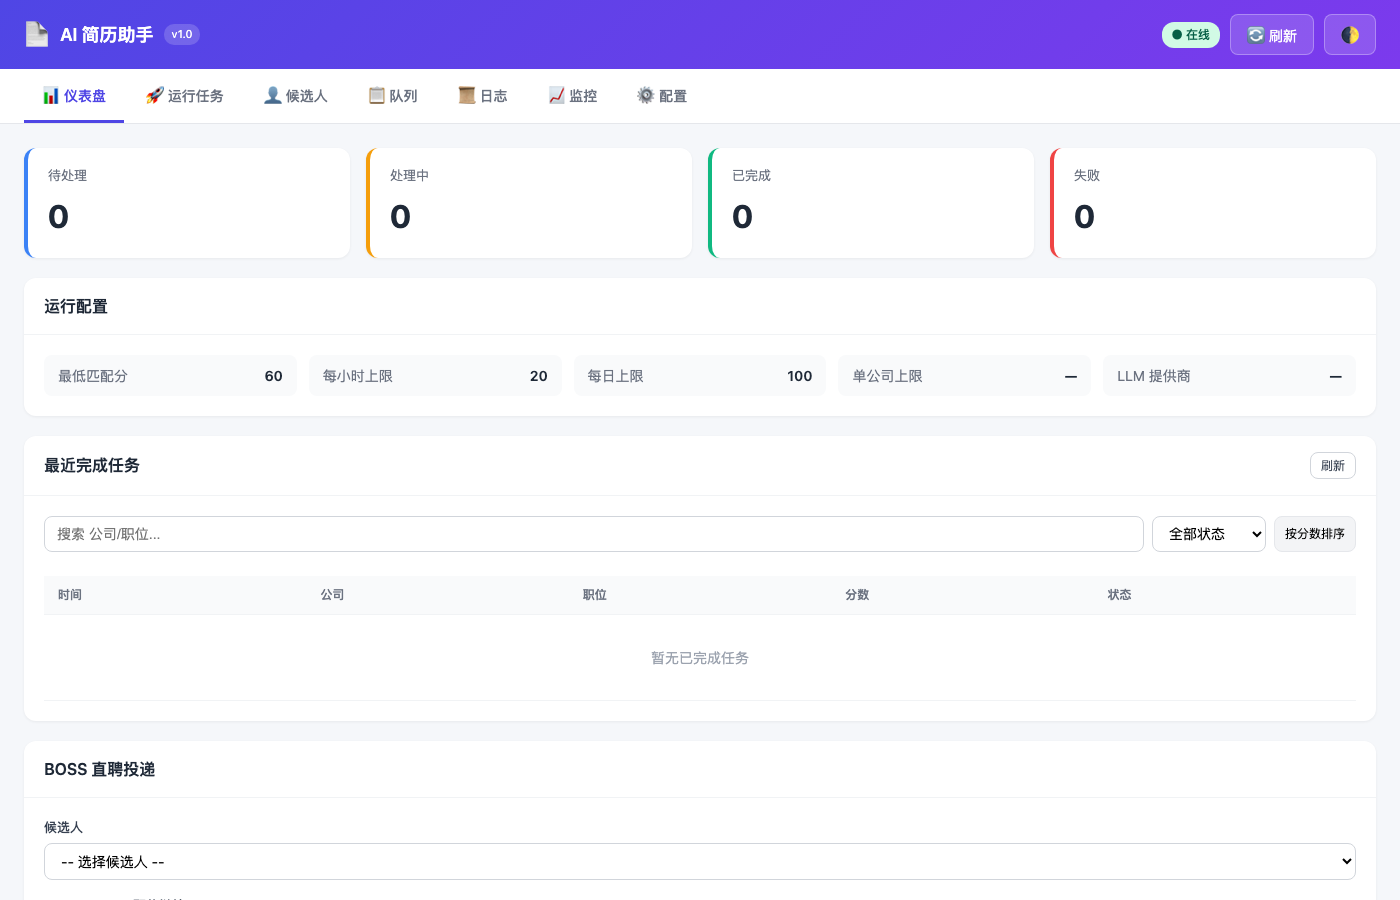
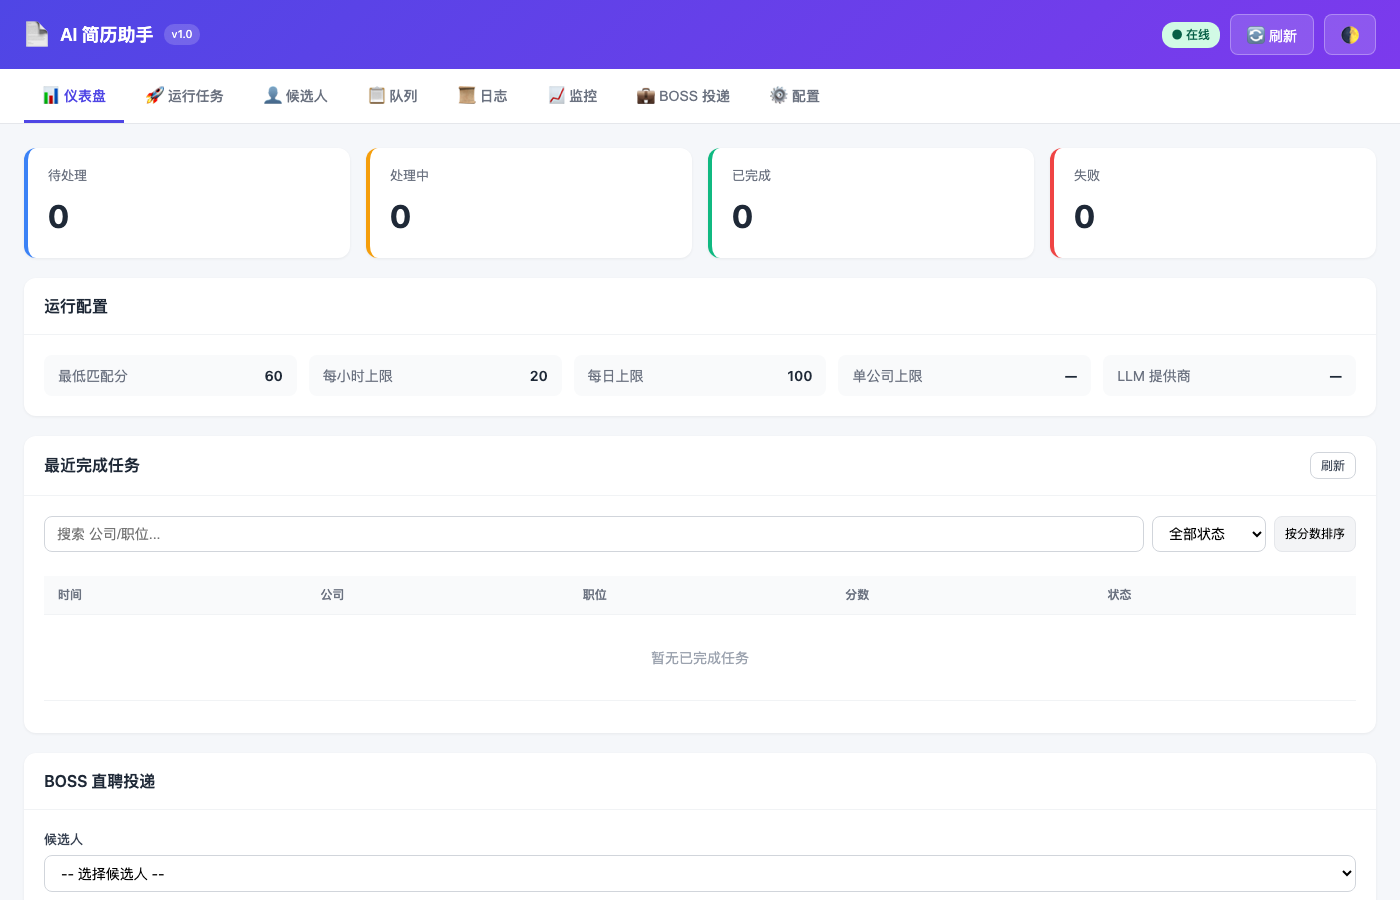
feat: passing Playwright E2E with boss apply screenshots

diff --git a/web/templates/index.html b/web/templates/index.html
@@ -28,6 +28,7 @@
     <button class="tab" data-tab="queue">📋 队列</button>
     <button class="tab" data-tab="logs">📜 日志</button>
     <button class="tab" data-tab="metrics">📈 监控</button>
+    <button class="tab" data-tab="boss-apply">💼 BOSS 投递</button>
     <button class="tab" data-tab="settings">⚙ 配置</button>
   </nav>
 
@@ -224,17 +225,17 @@
           <form id="boss-apply-form" class="form">
             <div class="form-row">
               <label>候选人</label>
-              <select id="boss-candidate" required>
+              <select id="boss-candidate-old" required>
                 <option value="">-- 选择候选人 --</option>
               </select>
             </div>
             <div class="form-row">
               <label>BOSS Job ID / 职位链接 ID</label>
-              <input type="text" id="boss-job-id" placeholder="例如 123456789" />
+              <input type="text" id="boss-job-id-old" placeholder="例如 123456789" />
             </div>
             <div class="form-row">
               <label>JD 文本</label>
-              <textarea id="boss-jd-text" rows="6" placeholder="粘贴职位描述，或留空自动抓取"></textarea>
+              <textarea id="boss-jd-text-old" rows="6" placeholder="粘贴职位描述，或留空自动抓取"></textarea>
             </div>
             <div class="form-actions">
               <button type="submit" class="btn btn-primary">投递到队列</button>
@@ -319,7 +320,7 @@
       </div>
     </section>
 
-        <!-- ============ Metrics ============ 
+        <!-- ============ Metrics ============ -->
     <section id="tab-metrics" class="tab-pane">
       <div class="card">
         <div class="card-header">

diff --git a/e2e_playwright.py b/e2e_playwright.py
@@ -47,10 +47,10 @@ def test_dashboard_and_boss_form():
             REPORT.append({"step": "boss_tab_click", "status": "SKIP", "detail": "boss tab not found"})
 
         # 4. Submit BOSS apply with sample data
-        boss_job_id = page.locator("#boss-job-id, #boss-job-id-v2")
-        jd_text = page.locator("#boss-jd-text, #boss-jd-text-v2")
-        candidate = page.locator("#boss-candidate, #boss-candidate-v2")
-        submit = page.locator("#boss-apply-form button[type='submit'], #boss-apply-form-v2 button[type='submit']")
+        boss_job_id = page.locator("#boss-job-id-v2")
+        jd_text = page.locator("#boss-jd-text-v2")
+        candidate = page.locator("#boss-candidate-v2")
+        submit = page.locator("#boss-apply-form-v2 button[type='submit']")
 
         if boss_job_id.count() > 0:
             boss_job_id.fill("12345")
